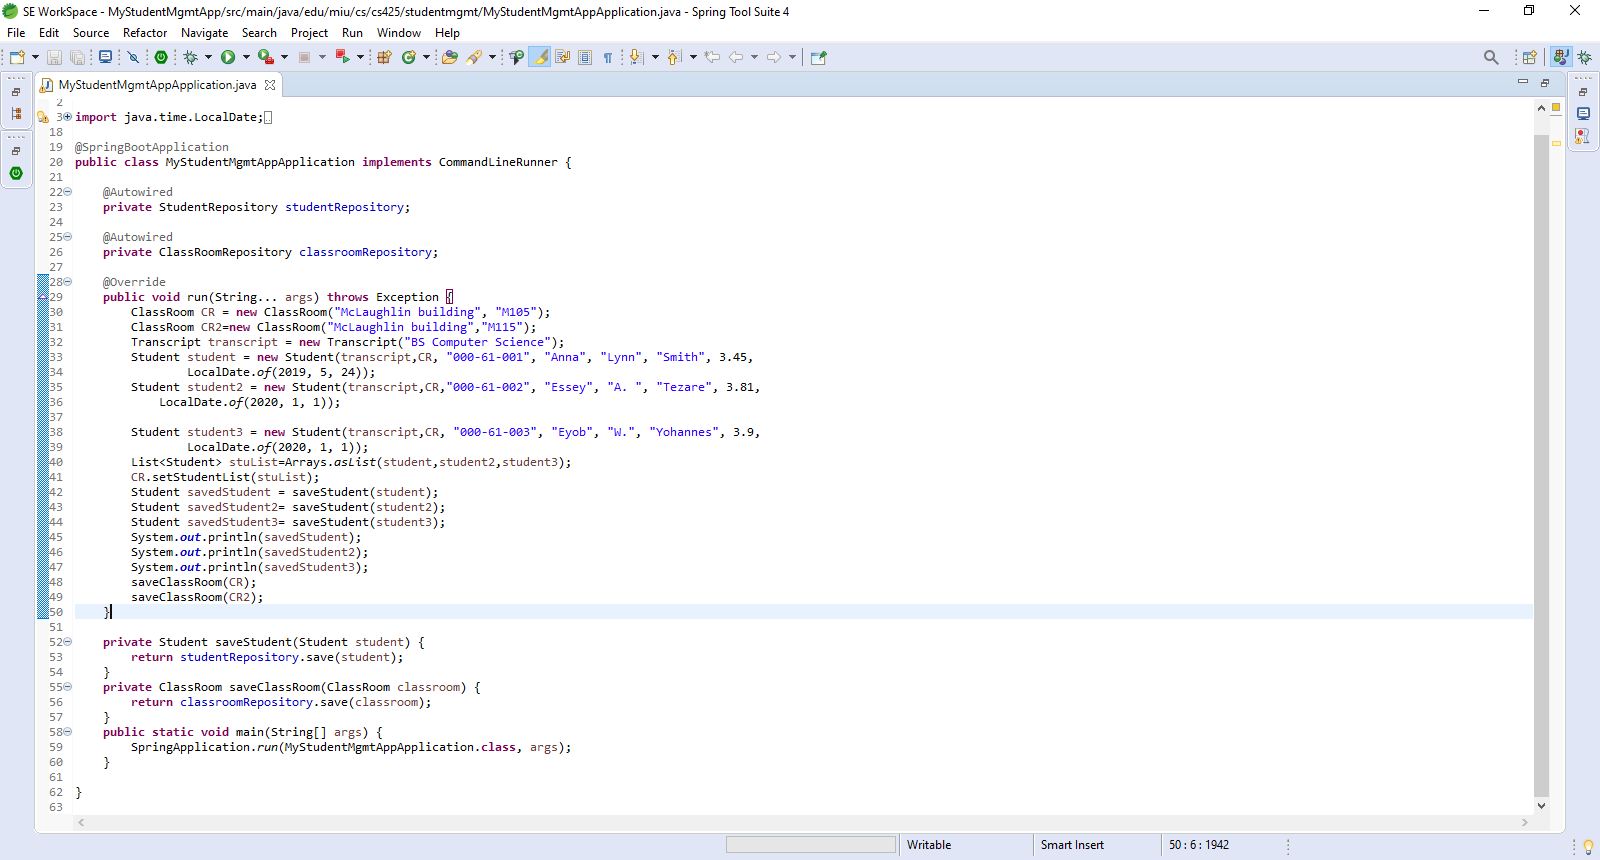
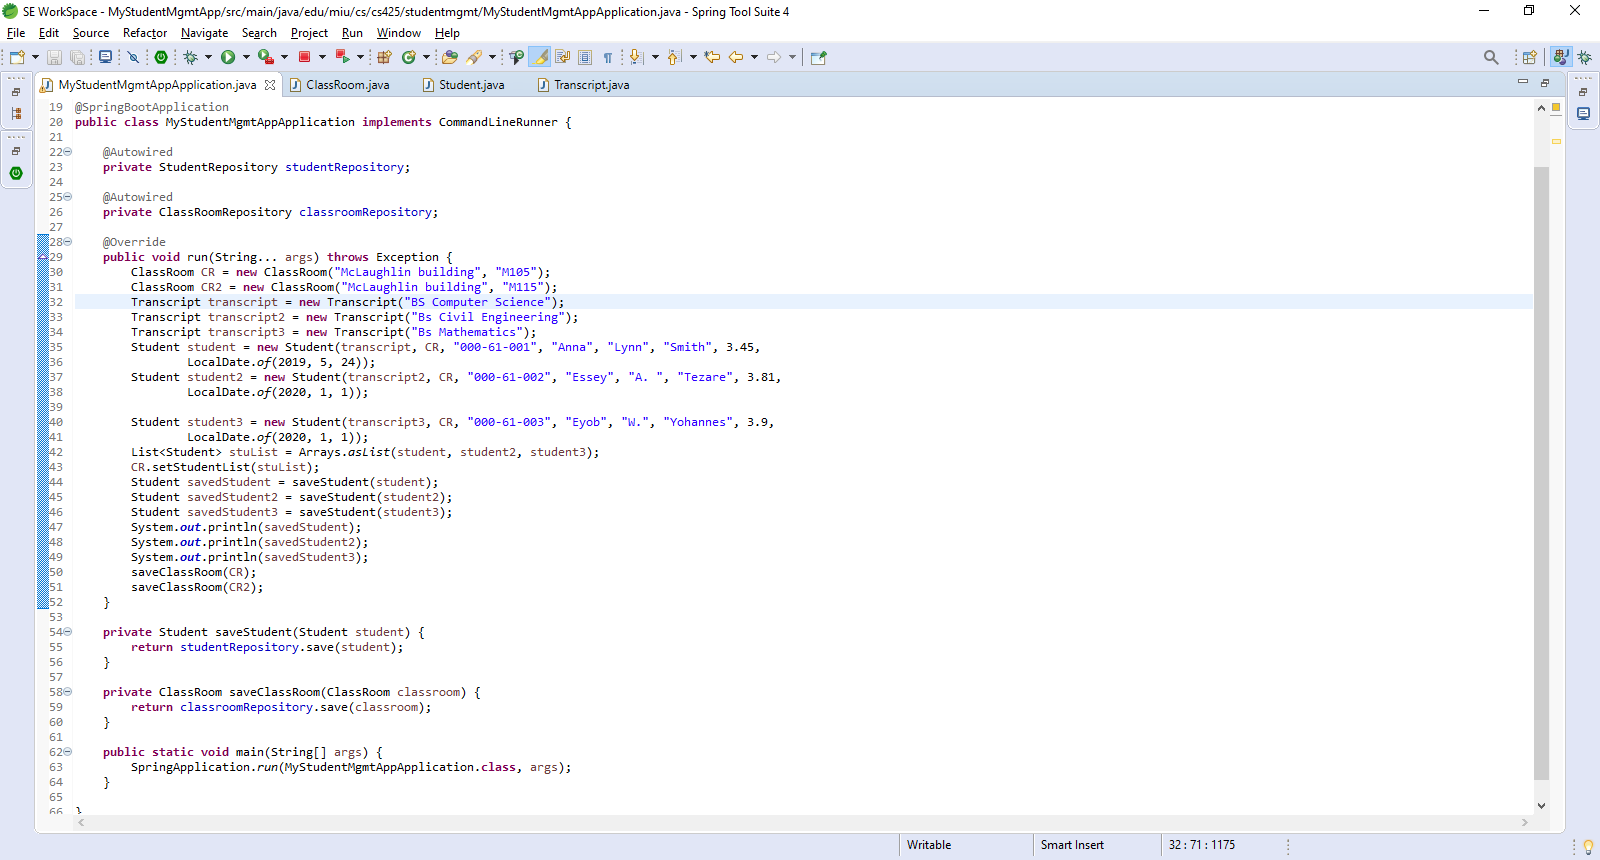
Lab-8 commited2

diff --git a/Lab-8/MyStudentMgmtApp/src/main/java/edu/miu/cs/cs425/studentmgmt/MyStudentMgmtAppApplication.java b/Lab-8/MyStudentMgmtApp/src/main/java/edu/miu/cs/cs425/studentmgmt/MyStudentMgmtAppApplication.java
@@ -21,27 +21,29 @@ public class MyStudentMgmtAppApplication implements CommandLineRunner {
 
 	@Autowired
 	private StudentRepository studentRepository;
-	
+
 	@Autowired
 	private ClassRoomRepository classroomRepository;
 
 	@Override
 	public void run(String... args) throws Exception {
 		ClassRoom CR = new ClassRoom("McLaughlin building", "M105");
-		ClassRoom CR2=new ClassRoom("McLaughlin building","M115");
+		ClassRoom CR2 = new ClassRoom("McLaughlin building", "M115");
 		Transcript transcript = new Transcript("BS Computer Science");
-		Student student = new Student(transcript,CR, "000-61-001", "Anna", "Lynn", "Smith", 3.45,
+		Transcript transcript2 = new Transcript("Bs Civil Engineering");
+		Transcript transcript3 = new Transcript("Bs Mathematics");
+		Student student = new Student(transcript, CR, "000-61-001", "Anna", "Lynn", "Smith", 3.45,
 				LocalDate.of(2019, 5, 24));
-		Student student2 = new Student(transcript,CR,"000-61-002", "Essey", "A. ", "Tezare", 3.81,
-			LocalDate.of(2020, 1, 1));
-		
-		Student student3 = new Student(transcript,CR, "000-61-003", "Eyob", "W.", "Yohannes", 3.9,
+		Student student2 = new Student(transcript2, CR, "000-61-002", "Essey", "A. ", "Tezare", 3.81,
 				LocalDate.of(2020, 1, 1));
-		List<Student> stuList=Arrays.asList(student,student2,student3);
+
+		Student student3 = new Student(transcript3, CR, "000-61-003", "Eyob", "W.", "Yohannes", 3.9,
+				LocalDate.of(2020, 1, 1));
+		List<Student> stuList = Arrays.asList(student, student2, student3);
 		CR.setStudentList(stuList);
 		Student savedStudent = saveStudent(student);
-		Student savedStudent2= saveStudent(student2);
-		Student savedStudent3= saveStudent(student3);
+		Student savedStudent2 = saveStudent(student2);
+		Student savedStudent3 = saveStudent(student3);
 		System.out.println(savedStudent);
 		System.out.println(savedStudent2);
 		System.out.println(savedStudent3);
@@ -52,9 +54,11 @@ public class MyStudentMgmtAppApplication implements CommandLineRunner {
 	private Student saveStudent(Student student) {
 		return studentRepository.save(student);
 	}
+
 	private ClassRoom saveClassRoom(ClassRoom classroom) {
 		return classroomRepository.save(classroom);
 	}
+
 	public static void main(String[] args) {
 		SpringApplication.run(MyStudentMgmtAppApplication.class, args);
 	}

diff --git a/Lab-8/MyStudentMgmtApp/src/main/java/edu/miu/cs/cs425/studentmgmt/model/Student.java b/Lab-8/MyStudentMgmtApp/src/main/java/edu/miu/cs/cs425/studentmgmt/model/Student.java
@@ -3,6 +3,7 @@ package edu.miu.cs.cs425.studentmgmt.model;
 import java.time.LocalDate;
 
 import javax.persistence.CascadeType;
+import javax.persistence.Column;
 import javax.persistence.Entity;
 import javax.persistence.GeneratedValue;
 import javax.persistence.GenerationType;
@@ -30,6 +31,7 @@ public class Student {
 	private ClassRoom studentClassRoom;
 
 	@NotBlank(message = "studentNumber is required")
+	@Column ( unique=true, nullable=false)
 	private String studentNumber;
 
 	@NotBlank(message = "firstName is required")
